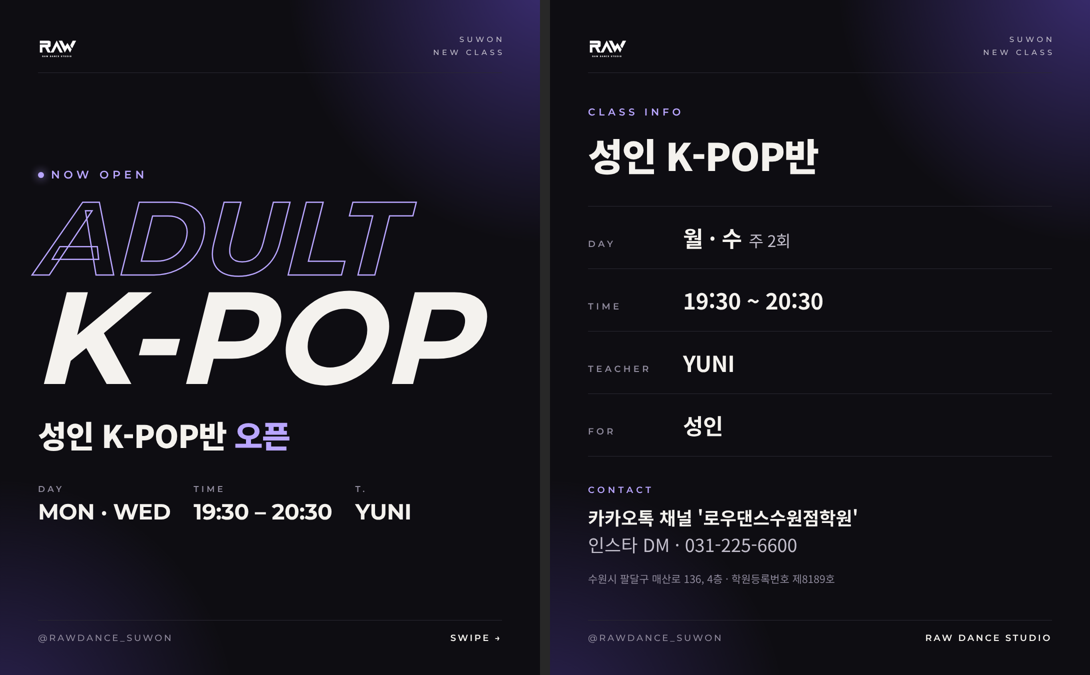
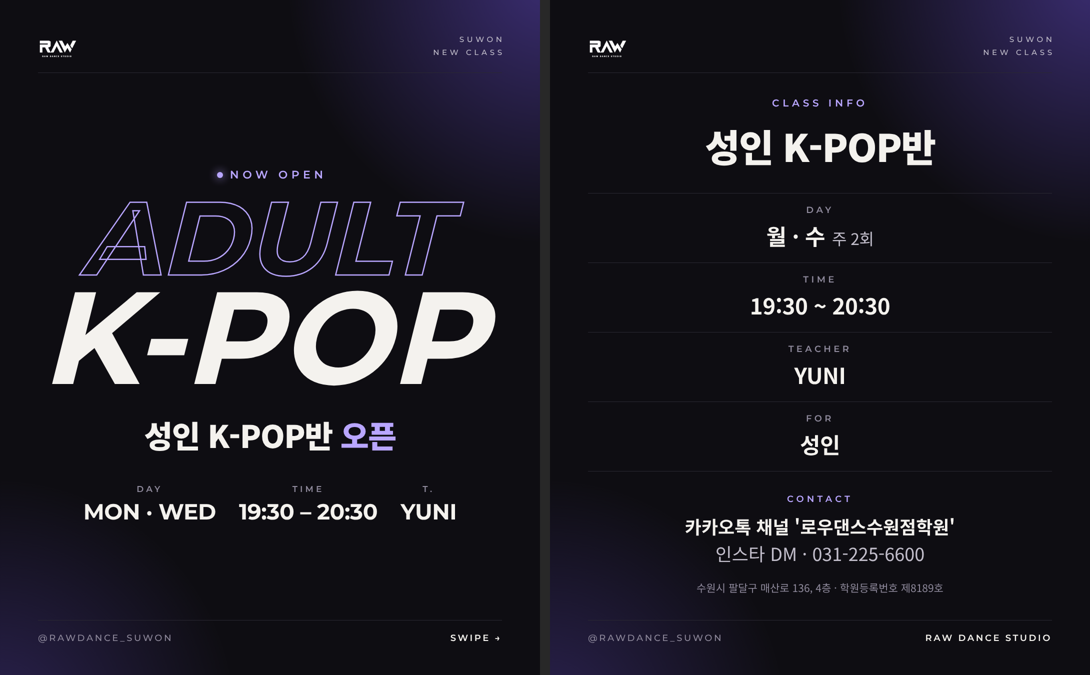
성인 K-POP반 카드뉴스 중앙 정렬
Claude-Session: https://claude.ai/code/session_01CMPXWNa21Fqq6srPZpa27D

diff --git a/content/2026-10-31_adult-kpop-open/card1.html b/content/2026-10-31_adult-kpop-open/card1.html
@@ -9,16 +9,16 @@ body{background:#0e0d12;color:#f4f2ee;font-family:"Noto Sans KR",sans-serif;posi
 .bot{height:110px;border-top:1px solid #2a2832;display:flex;justify-content:space-between;align-items:flex-start;padding-top:24px;font-family:Montserrat,sans-serif;font-size:18px;letter-spacing:.2em}
 .bot .h{color:#8f8a9c;font-weight:500}.bot .s{font-weight:600}
 
-.mid{flex:1;display:flex;flex-direction:column;justify-content:center}
-.new{display:inline-flex;align-self:flex-start;align-items:center;gap:14px;font-family:Montserrat,sans-serif;font-weight:600;font-size:22px;letter-spacing:.34em;color:#b9a6ff}
+.mid{flex:1;display:flex;flex-direction:column;justify-content:center;align-items:center;text-align:center}
+.new{display:inline-flex;align-items:center;gap:14px;margin-right:-.34em;font-family:Montserrat,sans-serif;font-weight:600;font-size:22px;letter-spacing:.34em;color:#b9a6ff}
 .new i{display:block;width:12px;height:12px;border-radius:50%;background:#b9a6ff;box-shadow:0 0 18px #b9a6ff}
-.t{margin-top:26px;font-family:Montserrat,sans-serif;font-weight:700;font-style:italic;line-height:.84;letter-spacing:-.04em;margin-left:-10px}
+.t{margin-top:26px;font-family:Montserrat,sans-serif;font-weight:700;font-style:italic;line-height:.84;letter-spacing:-.04em;position:relative;left:-14px}
 .t .a{display:block;font-size:208px;color:transparent;-webkit-text-stroke:2.5px #b9a6ff}
 .t .b{display:block;font-size:262px}
 .kr{margin-top:40px;font-size:62px;font-weight:900;letter-spacing:-1.5px}
 .kr span{color:#b9a6ff}
 .when{margin-top:54px;display:flex;gap:46px;align-items:flex-end}
-.when div{display:flex;flex-direction:column;gap:8px}
+.when div{display:flex;flex-direction:column;gap:8px;align-items:center}
 .when small{font-family:Montserrat,sans-serif;font-weight:600;font-size:17px;letter-spacing:.3em;color:#8f8a9c}
 .when b{font-family:Montserrat,sans-serif;font-weight:700;font-size:44px;letter-spacing:-.01em}
 </style></head><body><div class="g1"></div><div class="g2"></div><div class="p">

diff --git a/content/2026-10-31_adult-kpop-open/card2.html b/content/2026-10-31_adult-kpop-open/card2.html
@@ -9,15 +9,15 @@ body{background:#0e0d12;color:#f4f2ee;font-family:"Noto Sans KR",sans-serif;posi
 .bot{height:110px;border-top:1px solid #2a2832;display:flex;justify-content:space-between;align-items:flex-start;padding-top:24px;font-family:Montserrat,sans-serif;font-size:18px;letter-spacing:.2em}
 .bot .h{color:#8f8a9c;font-weight:500}.bot .s{font-weight:600}
 
-.mid{flex:1;display:flex;flex-direction:column;justify-content:center}
+.mid{flex:1;display:flex;flex-direction:column;justify-content:center;text-align:center}
 .k{font-family:Montserrat,sans-serif;font-weight:600;font-size:20px;letter-spacing:.34em;color:#b9a6ff}
 h1{margin-top:18px;font-size:76px;font-weight:900;letter-spacing:-2px}
-.rows{margin-top:48px;border-top:1px solid #2a2832}
-.r{display:flex;align-items:baseline;padding:30px 0;border-bottom:1px solid #2a2832}
-.r small{width:190px;flex:none;font-family:Montserrat,sans-serif;font-weight:600;font-size:18px;letter-spacing:.3em;color:#8f8a9c}
+.rows{margin-top:40px;border-top:1px solid #2a2832}
+.r{display:flex;flex-direction:column;align-items:center;gap:8px;padding:22px 0;border-bottom:1px solid #2a2832}
+.r small{font-family:Montserrat,sans-serif;font-weight:600;font-size:18px;letter-spacing:.3em;color:#8f8a9c}
 .r b{font-size:44px;font-weight:700;letter-spacing:-.5px}
 .r b em{font-style:normal;font-weight:400;color:#c3bfcc;font-size:32px;margin-left:14px}
-.ask{margin-top:56px}
+.ask{margin-top:44px}
 .ask .k{font-size:18px}
 .ask p{margin-top:16px;font-size:36px;font-weight:700;line-height:1.5}
 .ask p span{color:#c3bfcc;font-weight:400}

diff --git a/content/2026-10-31_adult-kpop-open/make_cards.py b/content/2026-10-31_adult-kpop-open/make_cards.py
@@ -19,16 +19,16 @@ body{background:#0e0d12;color:#f4f2ee;font-family:"Noto Sans KR",sans-serif;posi
 """
 
 card1 = f"""<!doctype html><html lang="ko"><head><meta charset="utf-8">{FONTS}<style>{BASE}
-.mid{{flex:1;display:flex;flex-direction:column;justify-content:center}}
-.new{{display:inline-flex;align-self:flex-start;align-items:center;gap:14px;font-family:Montserrat,sans-serif;font-weight:600;font-size:22px;letter-spacing:.34em;color:#b9a6ff}}
+.mid{{flex:1;display:flex;flex-direction:column;justify-content:center;align-items:center;text-align:center}}
+.new{{display:inline-flex;align-items:center;gap:14px;margin-right:-.34em;font-family:Montserrat,sans-serif;font-weight:600;font-size:22px;letter-spacing:.34em;color:#b9a6ff}}
 .new i{{display:block;width:12px;height:12px;border-radius:50%;background:#b9a6ff;box-shadow:0 0 18px #b9a6ff}}
-.t{{margin-top:26px;font-family:Montserrat,sans-serif;font-weight:700;font-style:italic;line-height:.84;letter-spacing:-.04em;margin-left:-10px}}
+.t{{margin-top:26px;font-family:Montserrat,sans-serif;font-weight:700;font-style:italic;line-height:.84;letter-spacing:-.04em;position:relative;left:-14px}}
 .t .a{{display:block;font-size:208px;color:transparent;-webkit-text-stroke:2.5px #b9a6ff}}
 .t .b{{display:block;font-size:262px}}
 .kr{{margin-top:40px;font-size:62px;font-weight:900;letter-spacing:-1.5px}}
 .kr span{{color:#b9a6ff}}
 .when{{margin-top:54px;display:flex;gap:46px;align-items:flex-end}}
-.when div{{display:flex;flex-direction:column;gap:8px}}
+.when div{{display:flex;flex-direction:column;gap:8px;align-items:center}}
 .when small{{font-family:Montserrat,sans-serif;font-weight:600;font-size:17px;letter-spacing:.3em;color:#8f8a9c}}
 .when b{{font-family:Montserrat,sans-serif;font-weight:700;font-size:44px;letter-spacing:-.01em}}
 </style></head><body><div class="g1"></div><div class="g2"></div><div class="p">
@@ -43,15 +43,15 @@ card1 = f"""<!doctype html><html lang="ko"><head><meta charset="utf-8">{FONTS}<s
 </div></body></html>"""
 
 card2 = f"""<!doctype html><html lang="ko"><head><meta charset="utf-8">{FONTS}<style>{BASE}
-.mid{{flex:1;display:flex;flex-direction:column;justify-content:center}}
+.mid{{flex:1;display:flex;flex-direction:column;justify-content:center;text-align:center}}
 .k{{font-family:Montserrat,sans-serif;font-weight:600;font-size:20px;letter-spacing:.34em;color:#b9a6ff}}
 h1{{margin-top:18px;font-size:76px;font-weight:900;letter-spacing:-2px}}
-.rows{{margin-top:48px;border-top:1px solid #2a2832}}
-.r{{display:flex;align-items:baseline;padding:30px 0;border-bottom:1px solid #2a2832}}
-.r small{{width:190px;flex:none;font-family:Montserrat,sans-serif;font-weight:600;font-size:18px;letter-spacing:.3em;color:#8f8a9c}}
+.rows{{margin-top:40px;border-top:1px solid #2a2832}}
+.r{{display:flex;flex-direction:column;align-items:center;gap:8px;padding:22px 0;border-bottom:1px solid #2a2832}}
+.r small{{font-family:Montserrat,sans-serif;font-weight:600;font-size:18px;letter-spacing:.3em;color:#8f8a9c}}
 .r b{{font-size:44px;font-weight:700;letter-spacing:-.5px}}
 .r b em{{font-style:normal;font-weight:400;color:#c3bfcc;font-size:32px;margin-left:14px}}
-.ask{{margin-top:56px}}
+.ask{{margin-top:44px}}
 .ask .k{{font-size:18px}}
 .ask p{{margin-top:16px;font-size:36px;font-weight:700;line-height:1.5}}
 .ask p span{{color:#c3bfcc;font-weight:400}}
